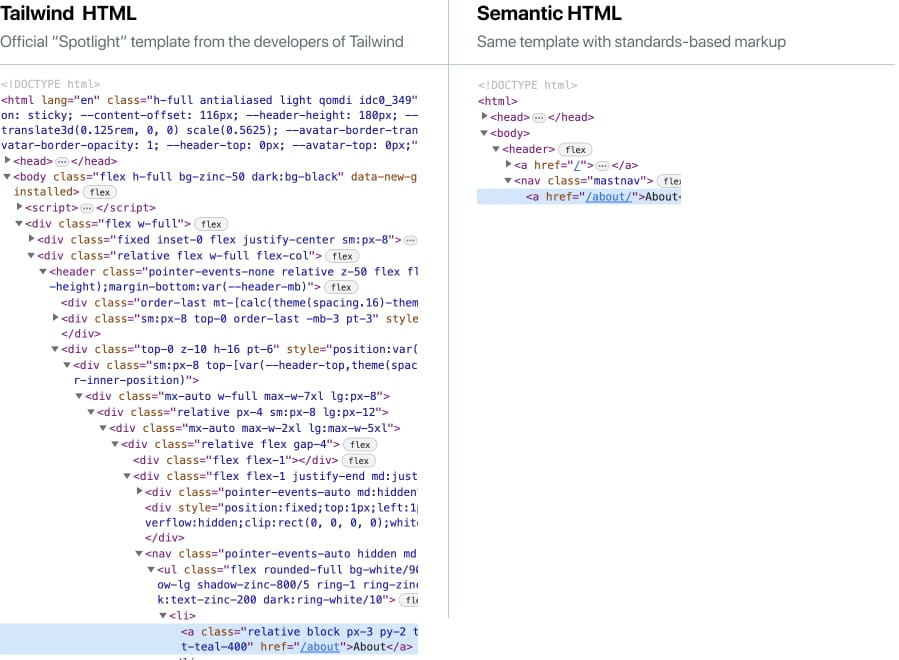
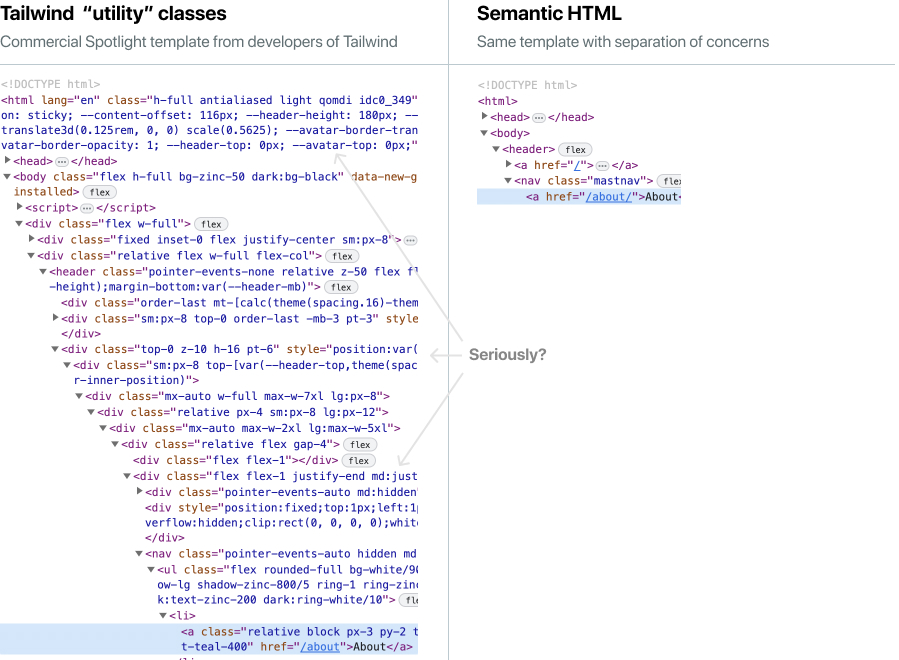
Tailwind vs Semantic CSS / Blog update

diff --git a/blog/blog.htm b/blog/blog.htm
@@ -7,6 +7,7 @@
       <h4>Tero Piirainen</h4>
       <p><a href="//twitter.com/tipiirai">@tipiirai</a></p>
       <pretty-date :date="date"/>
+      <span :if="update">• <time>Updated</time> on <pretty-date :date="update"/></span>
     </figcaption>
   </figure>
 </header>
@@ -21,7 +22,7 @@
       <figure>
         <img src="/global/img/tero.png">
         <figcaption>Tero Piirainen</figcaption>
-        <pretty-date :date="el.date"/>
+        <pretty-date :date="el.update || el.date"/>
         <span class="tag alarm" :if="isNew(el.date)">New</span>
       </figure>
     </aside>

diff --git a/blog/tailwind-vs-semantic-css/index.md b/blog/tailwind-vs-semantic-css/index.md
@@ -4,36 +4,33 @@ desc: Comparing two identically designed websites, their weight, amount of HTML 
 og: img/og.jpg
 thumb: tw-thumb.jpg
 date: 2023-10-23
+update: 2023-12-02
 include: syntax
 ---
 
-# Tailwind CSS vs. Semantic CSS
-This study compares two websites with a similar design: the official Tailwind "spotlight" template from the developers of Tailwind, and the same site crafted with semantic CSS and [Nue server components](/docs/nuejs/server-components.html). We'll take a deep look at what is under the hood and how the sites are built.
+# Tailwind _vs._ Semantic CSS
+This study compares two websites with identical design: the commercial Spotlight template from developers of Tailwind vs the same site with semantic CSS:
 
 [.cols]
   [media]
     href: //spotlight.tailwindui.com/
     small: img/tw-home.png
     large: img/tw-home-big.png
-    caption: Tailwind UI version →
   ---
   [media]
     href: /@spotlight/
     large: img/nue-home-big.png
     small: img/nue-home.png
-    caption: Semantic version →
-
-
 
 [.info]
-  #### Gist
-  **The semantic version is 8 &times; smaller, renders faster, and is easier to modify and extend.**
+  #### In short
+  **Semantic version is 8 &times; smaller, renders faster, and is easier to work with.**
 
 
 ## Front page HTML
-The main difference is that Tailwind uses "utility" class names and Nue uses semantic class names. That is: Nue gives meaning to the elements like `nav`, `button`, and `.gallery` and styles them with an external stylesheet. Tailwind styles elements inline — directly on the markup.
+The main difference: Tailwind uses "utility" classes and the semantic version uses external stylesheets. That is: Tailwind styles elements inline, directly on the markup and the semantic version respects the [separation of concerns](//en.wikipedia.org/wiki/Separation_of_concerns) principle.
 
-We can easily see the difference in the HTML markup by drilling down to the first element on the main navigation:
+You can see the difference by drilling down to the first A-element:
 
 [media]
   small: img/markup.png
@@ -41,7 +38,7 @@ We can easily see the difference in the HTML markup by drilling down to the firs
   caption: Drilling down to the first element on the main navigation
   class: bordered wider
 
-The semantic version is smaller because it utilizes high-level, semantic components like `.nav` and the external CSS can target elements with CSS selectors like `body > header`. Tailwind needs significantly more markup because the utility-first approach lacks the power of CSS selectors. You are forced to wrap divs inside divs inside divs and fill the elements with Tailwind-specific class syntax.
+Tailwind needs significantly more coding because you are completely lacking the power of CSS: the way it cascades and the richness of the selectors. You are forced to wrap divs inside divs inside divs and fill the elements with Tailwind-specific class syntax.
 
 Here is the full HTML source code of the front page.
 
@@ -87,7 +84,7 @@ Some key takes:
   caption: Creating a new design by extending a semantic base design
   class: tall
 
-Theming or "skinning" is a powerful concept in semantic CSS. You can alter your design by swapping parts of your CSS with another one or overriding a [base version](/@base/). CSS theming is impossible with Tailwind because the design is coupled to the markup. If you want a new design, you must edit your markup and override your earlier work.
+Theming is a powerful concept in CSS. You can alter your design by swapping parts of your CSS with another one or overriding a [base version](/@base/). Theming is impossible with Tailwind because the design is tightly coupled to the markup. If you want a new design, you must edit your markup and override your earlier work.
 
 
 
@@ -105,7 +102,7 @@ Please compare [Tailwind metrics](//pagespeed.web.dev/analysis/https-spotlight-t
 
 Two reasons why the semantic version is faster:
 
-1. The primary CSS is [inlined](//imkev.dev/loading-css) on the HTML page so that all the assets for the first viewport are fetched in the initial request. This is probably the most important performance optimization for the perceived page loading experience.
+1. The primary CSS is [inlined](//imkev.dev/loading-css) on the HTML page so that all the assets for the first viewport are fetched in the initial request. This is probably the most important performance optimization for the perceived page-loading experience.
 
 2. The first request is [less than 14K][14k], which is the maximum size of the first TCP packet.
 
@@ -121,7 +118,7 @@ The Preview tab on the Developer console is a great way to debug FCP:
 
 
 ## Best practices
-The key best practice of Tailwind is **tight coupling**. That is: the structure and styling are tied together. The semantic approach is the opposite: the structure and styling are loosely coupled**. Let's see what that means by studying the gallery component on the front page:
+Tailwind embraces **tight coupling**. That is: the structure and styling are tied together. The semantic approach is the opposite: the structure and styling are loosely coupled**. Here's what that means:
 
 [media]
   small: img/coupling.png
@@ -210,18 +207,15 @@ If you really want to move faster, you'll create a set of CSS components that yo
 
 
 ### But why is Tailwind so popular then?
-Because mastering CSS requires practice. It takes several failed attempts before you get it. Most developers haven't gone through that so they only remember the bad things. They have never built or used well-structured CSS.
+Because mastering CSS requires practice. It takes several failed attempts before you get it. Most developers haven't gone through that so they only remember the bad things.
 
-But when you truly master CSS, there is no turning back.
+The fact is that Tailwind's popularity will eventually fade. CSS-in-JS is trending now, but standards are forever. At some point, we'll all experience a "WTF moment" when looking at the tightly coupled Tailwind code.
 
-Tailwind, however, forces you to write divs inside divs and fill your elements with an insane amount of class names. I guess that Tailwind's popularity will eventually fade and the codebases will turn to technical debt. It's just a matter of time.
+- - -
 
-
-
-### Where is the source code?
-I'm working on it! I wanted to push out this blog entry quickly without the overhead of making this an open-source project. My next task is to work on the [Nue starter kit](//github.com/nuejs/create-nue) so that it generates a personal blog. I'll also write a blog entry called "Next.js vs Nue". It tackles the bigger picture and shows what's wrong with the current front-end ecosystem. You can join the mailing list, and I'll notify you when it's ready:
+## 🎁 Christmas is coming
+Nue is released before Christmas eve. Receive an email when that happens:
 
 [join-list]
 
-I'd appreciate your thoughts. I'd like to understand what people think of all this. You can also participate in the [discussion at Hacker News](//news.ycombinator.com/item?id=37982407).
 

diff --git a/docs2/why-nue/closer-to-standards.md b/docs2/why-nue/closer-to-standards.md
@@ -1,8 +1,9 @@
 
-# Develop closer to web standards
+# Standards are forever
+Stand the test of time by working closer to web standards
 
-## Work closer to metal
-Nue projects introduce 100× less NPM modules than Next.js. There's 100× less abstractions, less to learn, and less room for errors:
+## Be closer to metal
+Nue projects are 100× leaner than Next.js projects. Simple means everything. There's less abstractions, less to learn, less headaches, and less room for errors.
 
 [media]
   small: /img/project-sizes.png
@@ -10,29 +11,43 @@ Nue projects introduce 100× less NPM modules than Next.js. There's 100× less a
   class: wide
 
 [.small]
-  The contents of `node_modules` folder in blog starter template
+  The contents of `node_modules` folder in the Blog starter template
 
 
 
 ## Separation of concerns
-Nue separates HTML and CSS for UX developers, TypeScript for JS developers, and Markdown for content creators
+Nue separates HTML and CSS for UX developers, TypeScript for JS developers, and Markdown for content creators. Separation of concerns is the leading principle in Nue
 
 [media]
   small: /img/coupling.png
   large: /img/coupling-big.png
-  caption: Separation of concerns is the leading principle in Nue
+  caption: Source codes for the blog starter template
 
 
 
 ## Stand the test of time
-CSS-in-JS is trending now, but standards are forever. Sooner or later we all look at Tailwind with amaze:
+CSS-in-JS is trending now, but standards are forever. At some point we'll all experience a "WTF moment" when looking at this code from the era of tight coupling:
 
 [media]
   small: /img/tailwind-vs-semantic.jpg
   large: /img/tailwind-vs-semantic-big.jpg
   class: wide
 
-Look for more detailed comparison between [Tailwind vs Semantic CSS](/blog/)
+
+[.cols.tall]
+  ##### Tailwind- based:
+
+  [image-link src="/img/tw-spotlight.jpg" class="clickable" width="350"]
+    href: //spotlight.tailwindui.com/
+
+  See Nue blog: [Tailwind vs Standards](/blog/tailwind-vs-semantic-css/)
+  ---
+  ##### Standards- based:
+
+  [image-link src="/img/nue-spotlight.jpg" class="clickable" width="350"]
+    href: //nuejs.org/@spotlight
+
+
 
 
 

diff --git a/docs2/concepts/universal-hot-reloading.md b/docs2/concepts/universal-hot-reloading.md
@@ -6,7 +6,9 @@ page_class: hmr-page
 
 Nue provides a powerful hot-reloading utility that automatically updates your page on the browser as you edit your content, styling, layout, data files, or reactive components.
 
-![video here](/docs/img/stripes.jpg)
+[bunny-video]
+  videoId: 18714305-d2f3-453d-83a9-0bd017166949
+  poster: /img/hot-reload-hero.jpg
 
 Hot-reloading is automatically enabled in development. The client-server communication is based on server-sent events. Instead making a full reload, Nue uses a technique called *DOM diffing* to only update the parts on the page that have changed. Here are the details what gets automatically updated:
 
@@ -28,12 +30,28 @@ Hot-reloading is automatically enabled in development. The client-server communi
 - Form components: potential form data is restored to the updated component
 - Dialog components: dialogs and overlays remain open after they update
 
+[bunny-video]
+  videoId: abe66a92-71a9-4441-866b-20fdf31a7180
+  caption: Hot-reloading a reactive component
+
+
 ## Single-page apps
 - Changes to the server-side HTML code in `index.html`
 - The main reactive application changes
 - Any dependant component changes
 - The application state is retained trough [application router](app-router)
 - site.yaml or app.yaml data passed to the reactive client
+
+
+## Compiler errors
+- JavaScript/Typescript syntax errors
+- HTML layouts
+- Reactive components
+
+[.cols]
+  ![JS error](/img/js-error.png)
+  ---
+  ![Layout error](/img/nue-error.png)
 
 
 ## Non- goals

diff --git a/docs2/tutorials/build-a-simple-spa.md b/docs2/tutorials/build-a-simple-spa.md
@@ -2,6 +2,7 @@
 # Build a simple SPA with Nue
 In this tutorial, you’ll learn Nue's key features and benefits by building a fully-functioning single-page application (SPA), from zero to production.
 
+
 [media]
   small: /img/simple-spa.png
   large: /img/simple-spa-big.png
@@ -191,6 +192,7 @@ The model is kept as "dummy" as possible. It doesn't know anything about the vie
 ## Create views
 Next we create three reactive views with Nue's [template syntax](template-syntax):
 
+
 #### Users view
 
 ```
@@ -341,15 +343,13 @@ Here is a sligtly more advanced SPA example with 6,968 leads and 985 customers o
 [bunny-video]
   videoId: 7c291fcd-b344-4ff9-bd3f-5c7301707c5d
   caption: Simple, instant CRM with 10k+ entries in the backend
-  width: 650
+  poster: thumbnail_0e853239.jpg
 
 
-
-! video:
 
 The Readme link on the top/right corner takes you away from the SPA to a normal multi-page application, and the app router is seamlessly switched to a [page router](client-side-navigation). Hitting browser's back and forward button toggles between the two routing methods.
 
-Here is the [demo] and the [source code]() for this more advanced example. For inspiration.
+Here is the [demo](/@simple-crm) and the [source code]() for this more advanced example. For inspiration.
 
 Enjoy!
 

diff --git a/docs2/why-nue/developer-experience.md b/docs2/why-nue/developer-experience.md
@@ -6,7 +6,7 @@ Create entire websites without touching your browser
 
 [bunny-video]
   videoId: 18714305-d2f3-453d-83a9-0bd017166949
-  poster: thumbnail_13eb9805.jpg
+  poster: /img/hot-reload-hero.jpg
   class: wide
 
 
@@ -16,7 +16,7 @@ Create entire websites without touching your browser
 
 
 ## Write less code
-Thanks to Nue's *extreme minimalism* and [standards- based](closer-to-standards.html) programming style, you need less effort to do the same thing
+Thanks to Nue's [simple and standards- based](closer-to-standards.html) approach, you need less time and effort to build the same thing:
 
 [.cols]
   [image-link src="/img/next-starter.png" class="clickable" width="350"]
@@ -36,8 +36,7 @@ Thanks to Nue's *extreme minimalism* and [standards- based](closer-to-standards.
 [media]
   small: /img/less-to-code.png
   large: /img/less-to-code-big.png
-  caption: Next.js uses 5x more characters for the blog starter template
-  class: wide
+  caption: "Blog starter template: 5x less coding with Nue"
 
 
 

diff --git a/docs2/why-nue/website-performance.md b/docs2/why-nue/website-performance.md
@@ -44,13 +44,13 @@ Nue defaults to [unbundled distribution](../concepts/js-modules#unbundled) so on
 
 
 ## Serve less CSS
-Build faster sites with inlineable, cacheable, and modular CSS. Here’s the official Tailwind "Spotlight" template made with [Tailwind CSS]( //spotlight.tailwindui.com/) and [Semantic CSS](//nuejs.org/@spotlight/):
+Build faster sites with leaner CSS that is easy to inline
 
 [.cols]
   [image-link src="/img/tw-spotlight.jpg" class="clickable" width="350"]
     href: //spotlight.tailwindui.com/
 
-  #### Tailwind version
+  #### Tailwind CSS
 
   [Live demo](//spotlight.tailwindui.com/)
 
@@ -58,7 +58,7 @@ Build faster sites with inlineable, cacheable, and modular CSS. Here’s the off
   [image-link src="/img/nue-spotlight.jpg" class="clickable" width="350"]
     href: //nuejs.org/@spotlight
 
-  #### Semantic Nue version
+  #### Semantic CSS
 
   [Live demo](//nuejs.org/@spotlight)
 

diff --git a/docs2/concepts/js-modules.md b/docs2/concepts/js-modules.md
@@ -67,8 +67,7 @@ Single-page applications have no concept of main.js, since they can import modul
 
 
 ## Unbundled distribution [unbundled]
-By default Nue copies JavaScript files directly to the distribution directory and TypeScript files are run through `Bun.build()` or `esbuild.build()` under Node. And the default behaviour is to [build, but not bundle](//blog.logrocket.com/building-without-bundling/). That is: the imported dependencies are *not* inlined into the file itself to form a single, bigger JS bundle.
-
+Nue runs all JavaScript and TypeScript files through `Bun.build()` or `esbuild.build()` if you are working under Node. The default is to [build, but not bundle](//blog.logrocket.com/building-without-bundling/). That is: the imported dependencies are *not* inlined into the file itself to form a single, bigger JS bundle.
 
 Three performance reasons why Nue defaults to unbundled JavaScript:
 

diff --git a/docs2/concepts/reactive-islands.md b/docs2/concepts/reactive-islands.md
@@ -92,5 +92,7 @@ NOTE: the key to [performance optimization](performance-optimization) is more ab
 ## Single-page applications
 A single-page application is essentially a one, big reactive island. You develop them in [almost the same way](../tutorials/build-a-simple-spa.html) as you'd develop a simpler island. And you can enjoy the development boost of hot-reloading even if you have multiple/nested views and the UI is connected with the backend data over the network:
 
-![video](/docs/img/stripes.jpg)
-! SPA: one big reactive island
+[bunny-video]
+  videoId: 7c291fcd-b344-4ff9-bd3f-5c7301707c5d
+  caption: "Single-page application — one big reactive island"
+  poster: thumbnail_0e853239.jpg

diff --git a/docs2/concepts/client-side-navigation.md b/docs2/concepts/client-side-navigation.md
@@ -7,9 +7,6 @@ Nue supports near-instant, client-side navigation between two pages. This means 
   caption: Client-side navigation in action
   width: 650
 
-
-![video here](/docs/img/stripes.jpg)
-
 Nue's implementation is unique for two reaons:
 
 1. A simple configuration option: `page_router: true` is enough to enable near-instant page switching on your multi-page application. All the internal links, including the ones inside your Markdown content are impacted. There is no need to tag your links individually or add any complex JavaScript code.

diff --git a/index.md b/index.md
@@ -55,7 +55,6 @@ Receive an email when something major comes out:
 
 
 ## Developer feedback
-Both beginners and experienced professionals love Nue:
 
 
 [.hero-quote]
@@ -65,9 +64,8 @@ Both beginners and experienced professionals love Nue:
 
   > **I'm glad Nue is bringing back that power.**
 
-  —
   [Elliot Jay Stocks](//elliotjaystocks.com/)
-  Legendary designer & CSS guru
+  Legendary designer & early CSS advocate
 
 
 [quotes]
